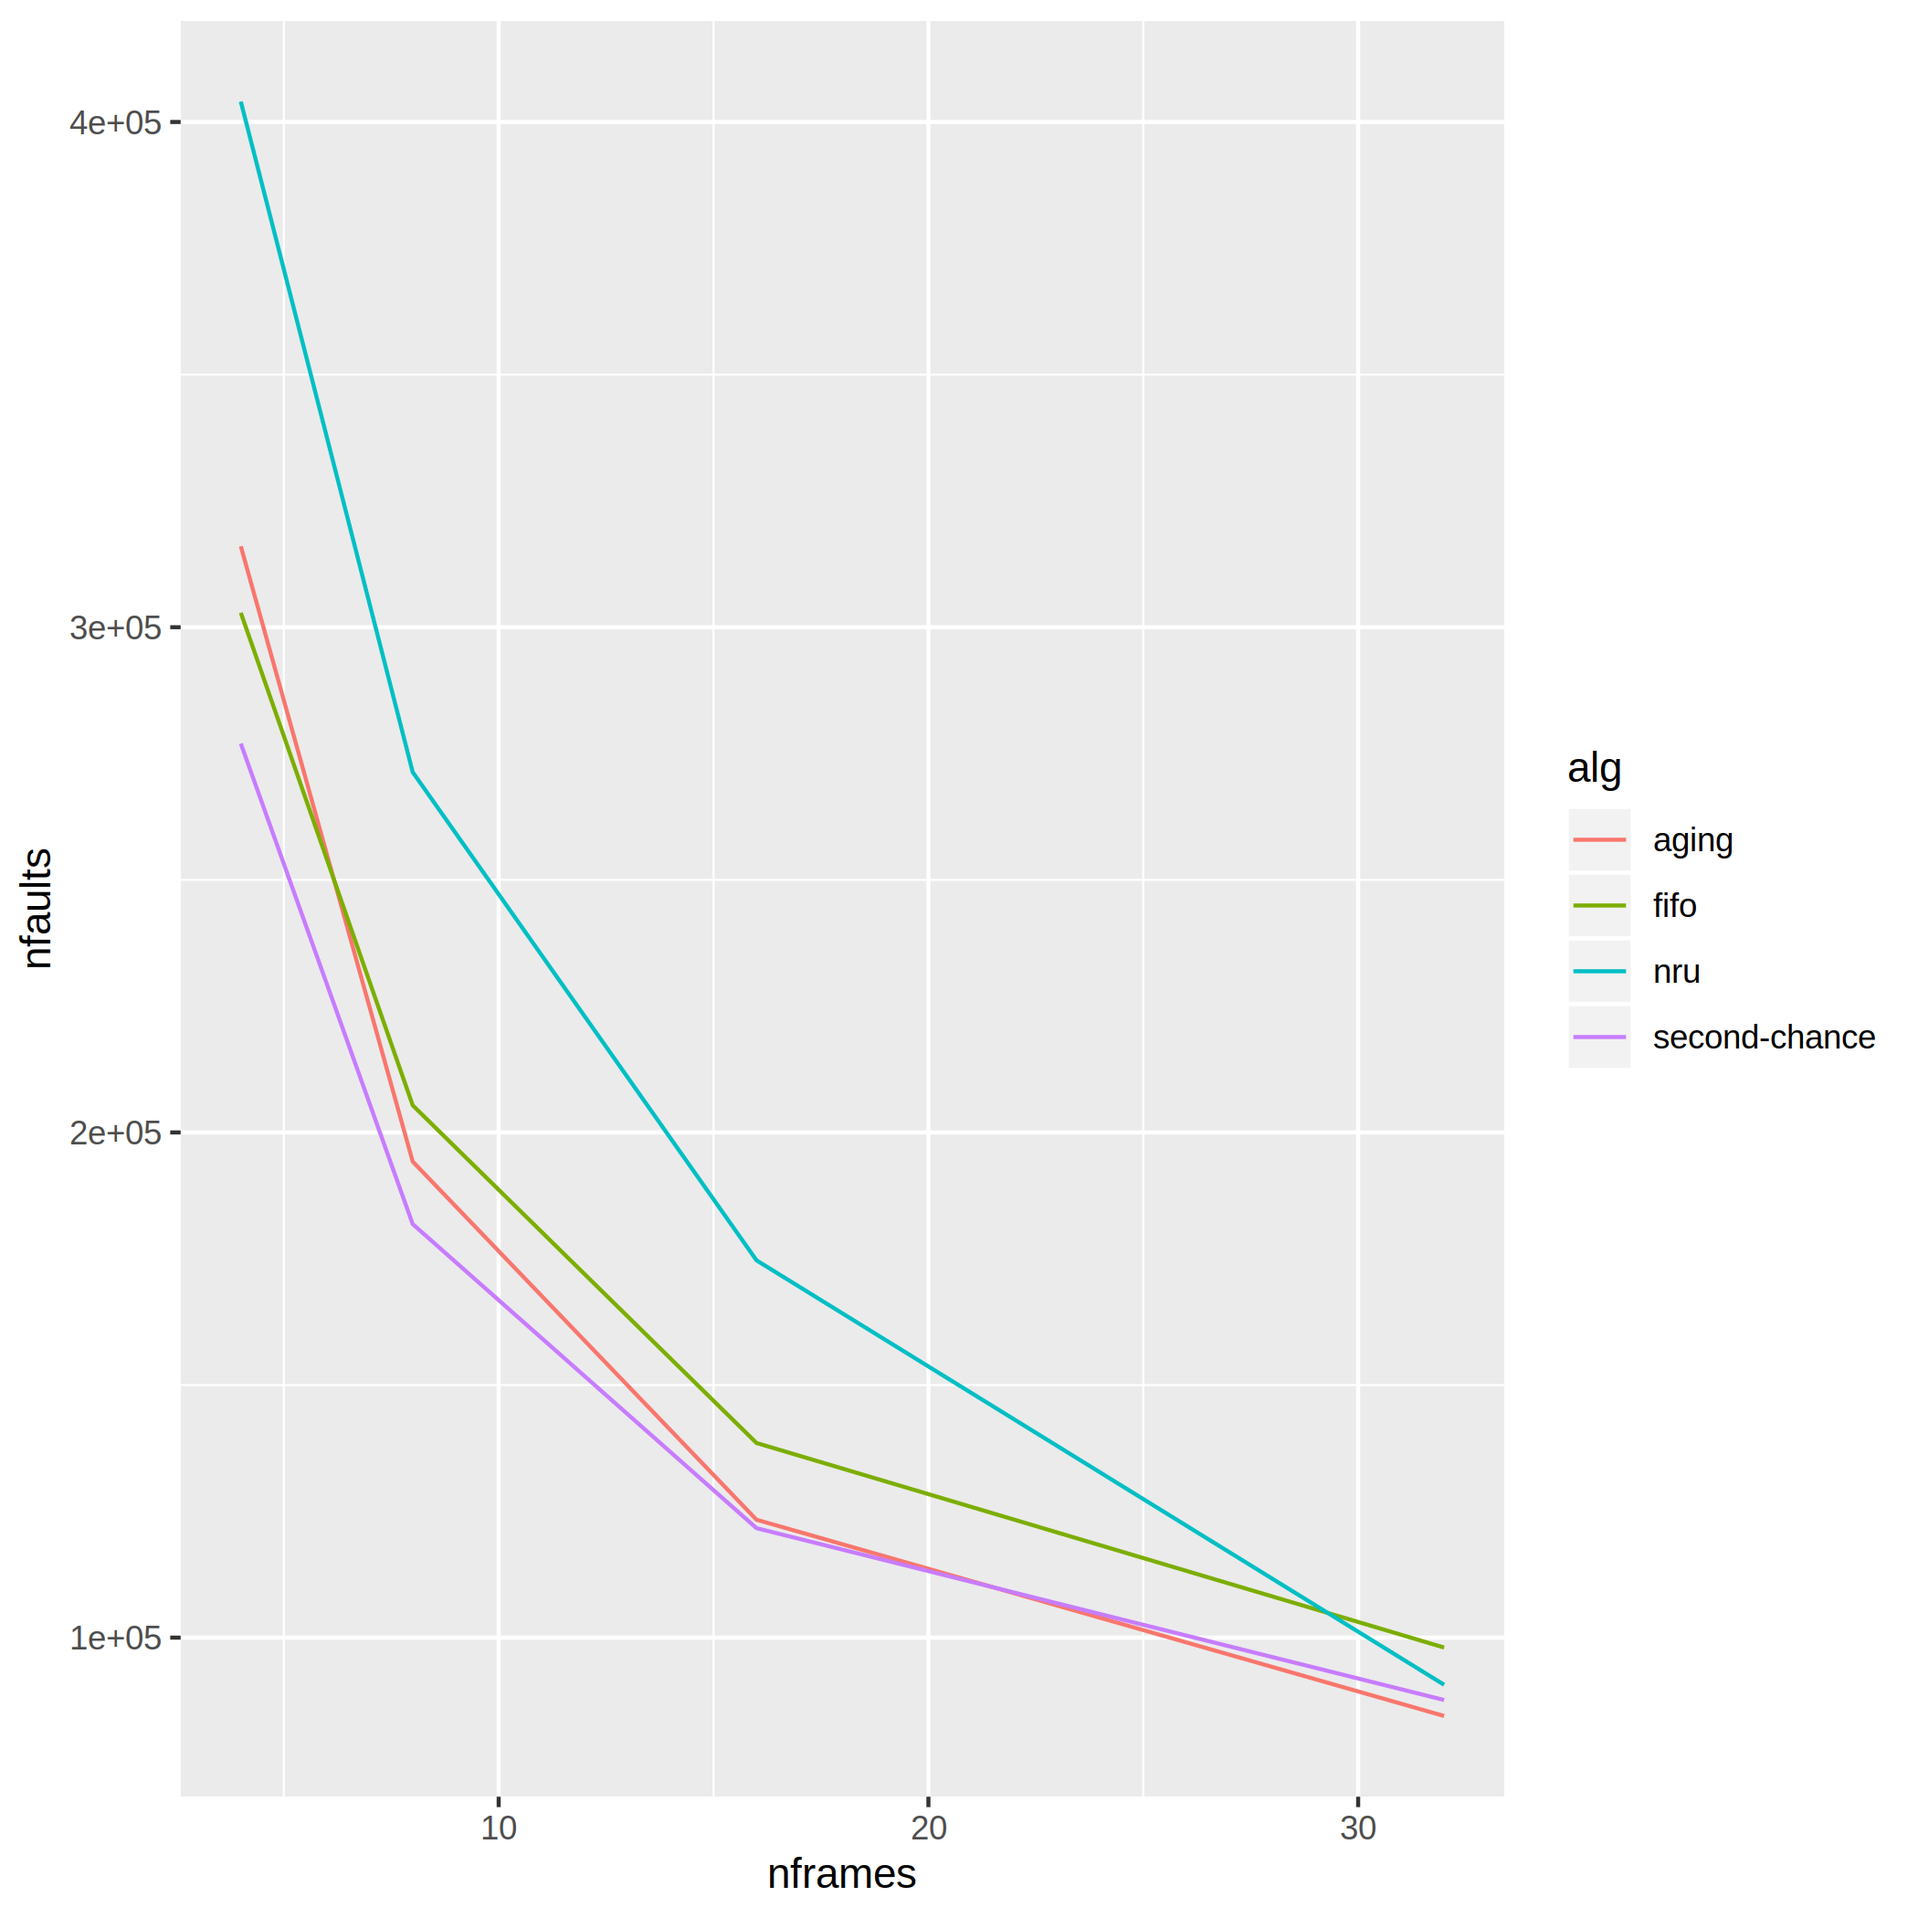
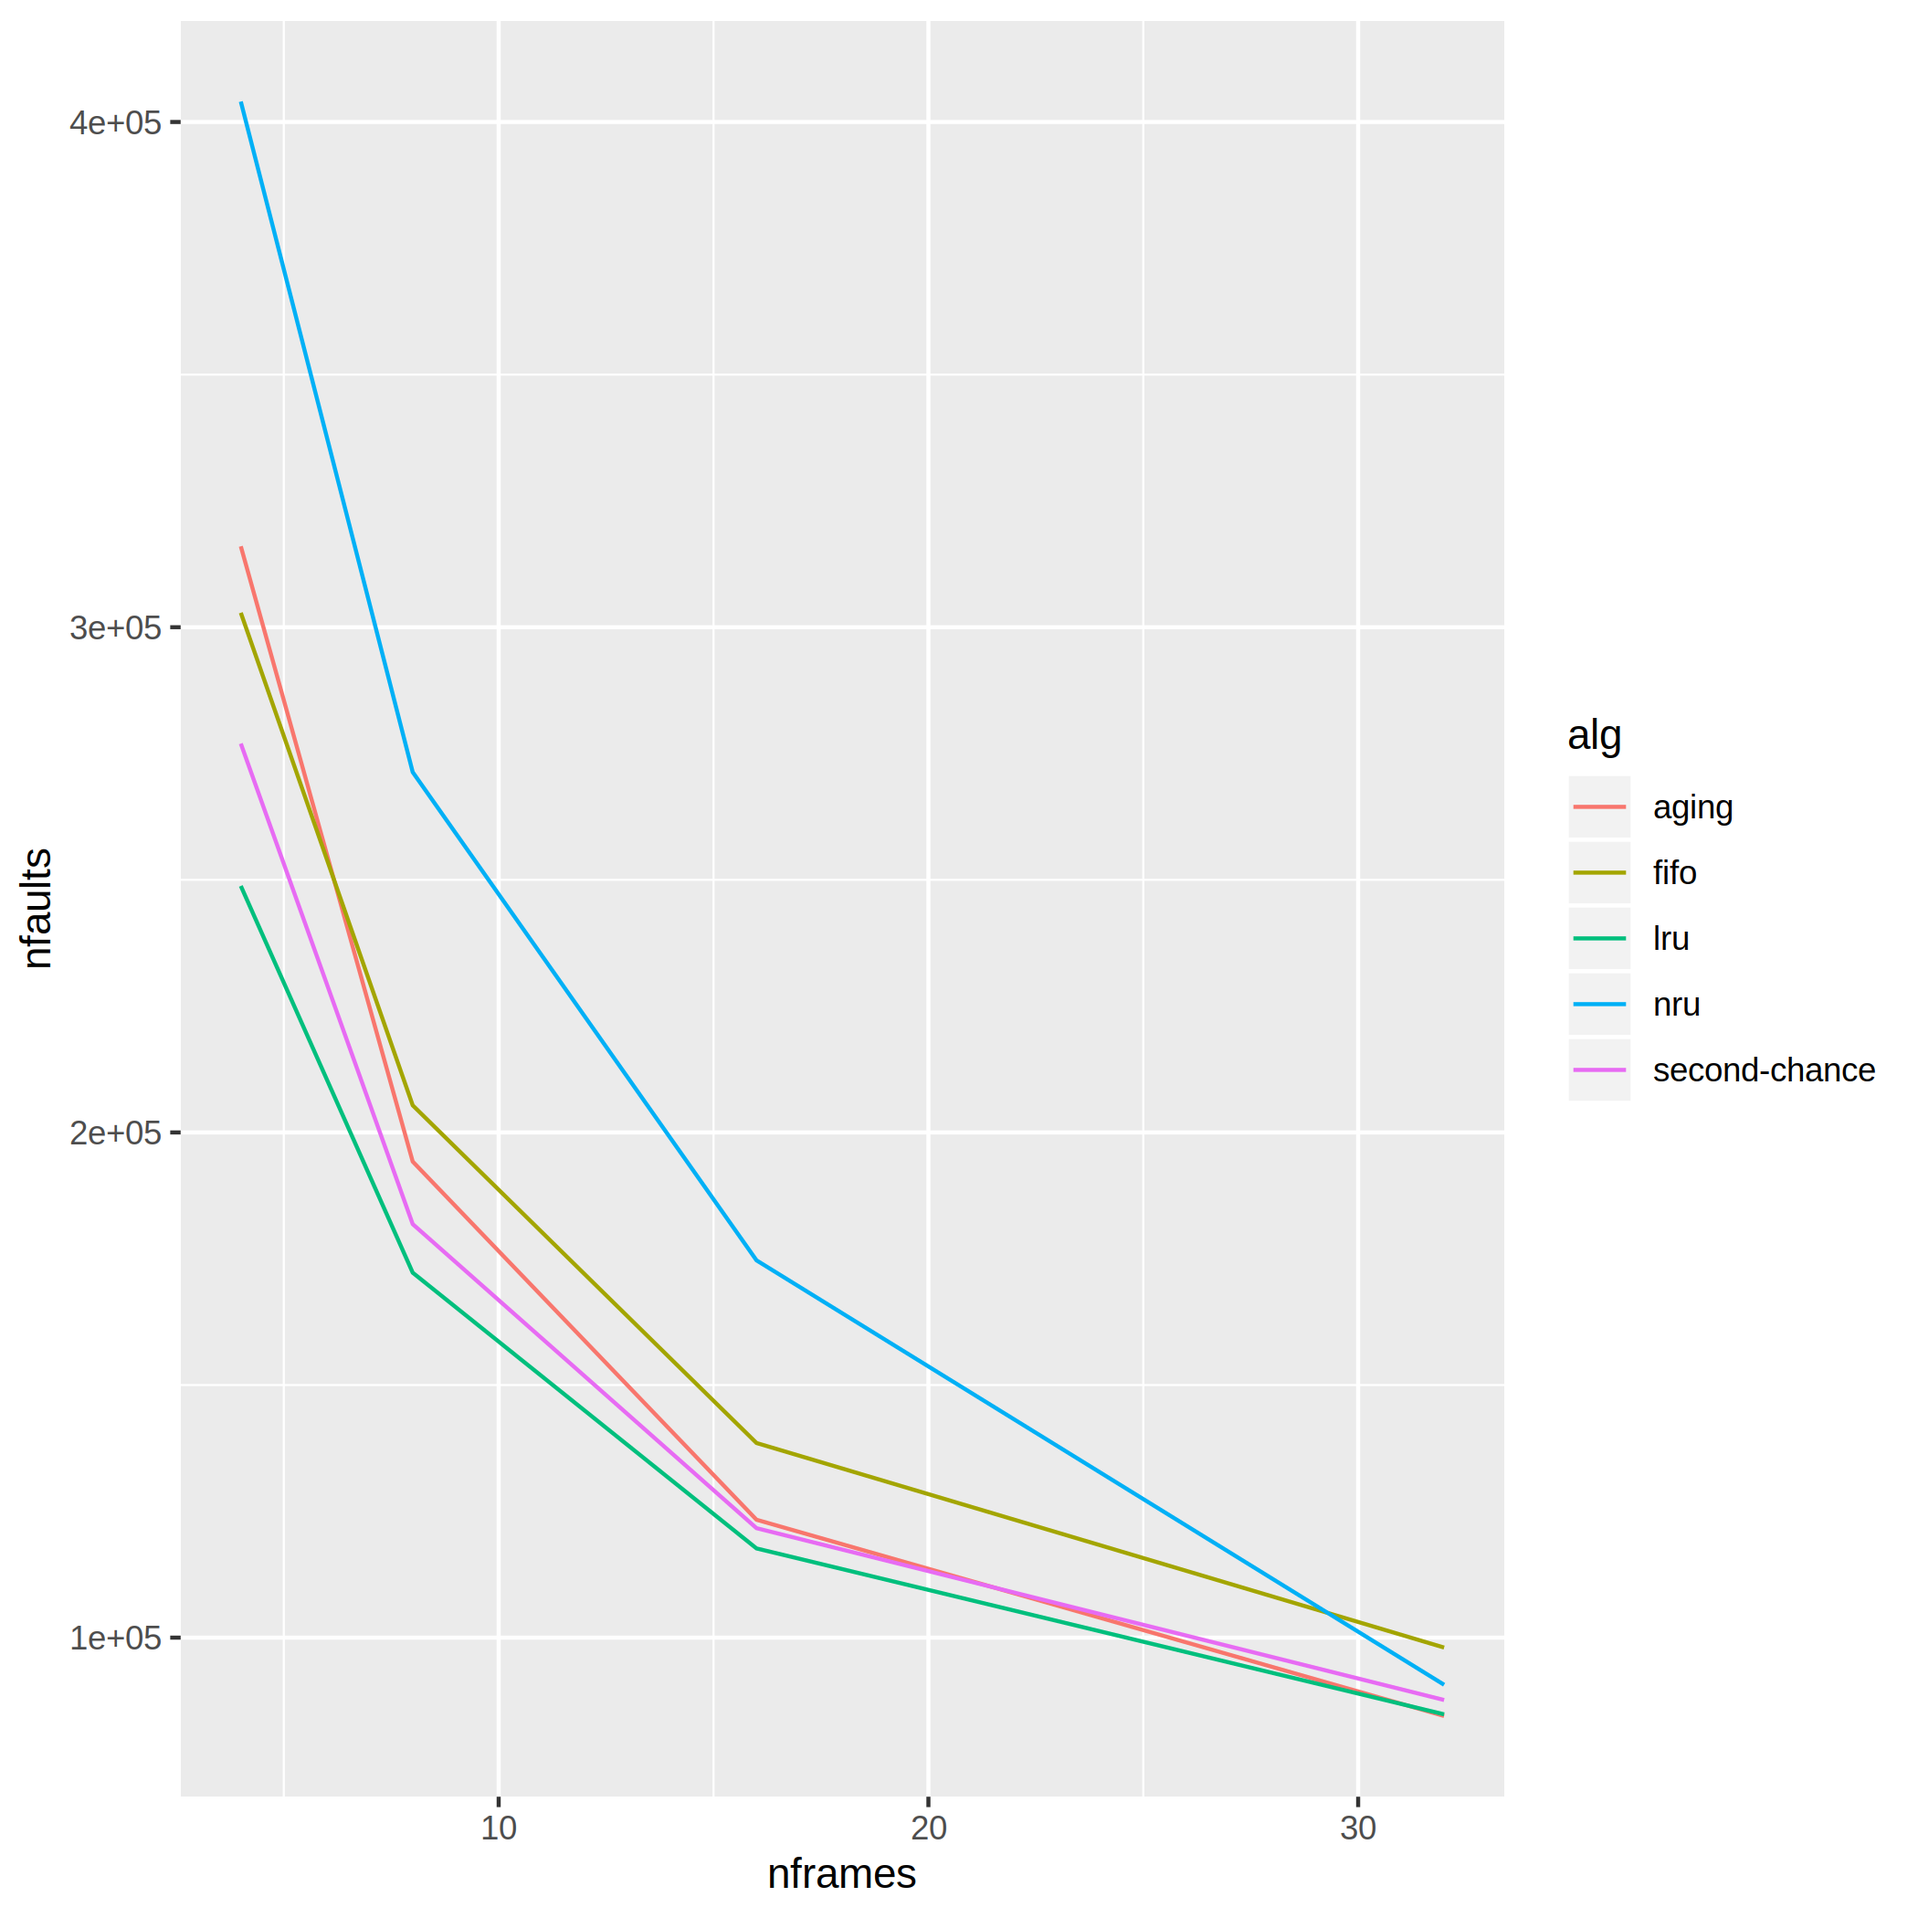
Adding lru to script and ploting

diff --git a/lab_mem/page_replacement/python/phymem.py b/lab_mem/page_replacement/python/phymem.py
@@ -19,7 +19,7 @@ class PhysicalMemory:
   """How many bits to use for the Aging algorithm"""
 
   def __init__(self, algorithmType):
-    assert algorithmType in {"fifo", "nru", "aging", "second-chance"}
+    assert algorithmType in {"fifo", "nru", "aging", "second-chance", "lru"}
     
     if algorithmType == "fifo":
         self.algorithm = FIFO()
